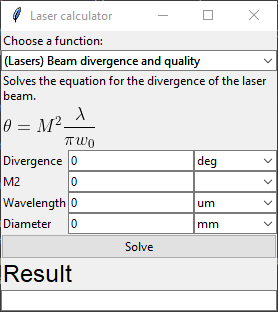
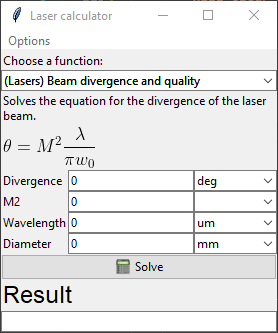
Added history (Issue #4)

diff --git a/laser-calculator.py b/laser-calculator.py
@@ -5,19 +5,31 @@ from tkinter import ttk
 import json
 import sympy
 import copy
+import datetime
 
 class Calculator(ttk.Frame):    
     def __init__(self,master):
         ttk.Frame.__init__(self,master)
         self.master = master
         self.master.title("Laser calculator")
+        self.master.option_add("*tearOff", tk.FALSE)
+        self.master.protocol("WM_DELETE_WINDOW", self.on_closing)      
 
         with open('functions.json', 'r') as file:
             self.settings = json.load(file)
         with open("constants.json","r") as file:
             self.constants = json.load(file)
+        try:
+            with open('history.json', 'r') as file:
+                self.history = json.load(file)
+        except FileNotFoundError:
+            self.history = dict()
 
         self.ureg = pint.UnitRegistry()
+
+        self.p_history = tk.PhotoImage(master=self,file=r"icons/log.png")
+        self.p_clear = tk.PhotoImage(master=self,file=r"icons/delete.png")
+        self.p_calc = tk.PhotoImage(master=self,file=r"icons/calc.png")
 
         self.functions = list(self.settings.keys())
         self.functions_names = [self.settings[x]["name"] for x in self.functions]
@@ -38,10 +50,79 @@ class Calculator(ttk.Frame):
         ttk.Label(self.frame_main,text=instructions,wraplength=280,justify="left").grid(row=0,column=0,sticky="ew",columnspan=3)
         self.frame_main.grid(column=0,row=1)
 
+        self.menubar = tk.Menu(self.master)
+        self.master["menu"] = self.menubar
+        self.menu_options = tk.Menu(self.menubar)
+        self.menubar.add_cascade(menu=self.menu_options,label="Options")
+        self.menu_options.add_command(label="Show history",command=self.show_history,image=self.p_history,compound=tk.LEFT,accelerator="Ctrl+H")
+        self.menu_options.add_command(label="Clear history",command=self.clear_history,image=self.p_clear,compound=tk.LEFT)
+        self.history_window_open = False
+
+        self.bind_all("<Control-KeyPress-h>",self.show_history)
+
+    def on_closing(self):
+        with open('history.json', 'w') as file:
+            json.dump(self.history,file,sort_keys=True, indent=4)
+        self.master.destroy()
+
+    def show_history(self,event=None):
+        try:
+            self.history_window.destroy()
+            self.history_window_open = False
+        except:
+            pass
+        self.history_window = tk.Toplevel(self.master)
+        self.history_window.title("History")
+        self.history_window.protocol("WM_DELETE_WINDOW", self.close_history)        
+        
+        self.history_tree = ttk.Treeview(self.history_window,columns=("function","inputs","outputs"))
+        self.history_tree.heading("#0",text="Time")
+        self.history_tree.heading("function",text="Function")
+        self.history_tree.heading("inputs",text="Inputs")
+        self.history_tree.heading("outputs",text="Output")
+        self.history_tree.column("#0",stretch=False,width=150)
+        self.history_tree.column("function",stretch=False,width=200)
+        self.history_tree.column("inputs",stretch=True,width=350)
+        self.history_tree.column("outputs",stretch=True,width=350)        
+        self.history_tree.grid(column=1,row=1,sticky="nsew")
+        scrlbar = ttk.Scrollbar(self.history_window,command=self.history_tree.yview)
+        self.history_tree.config(yscrollcommand = scrlbar.set)
+        scrlbar.grid(column=2,row=1,sticky="nsew")
+        self.history_window.columnconfigure(1,weight=1)
+        self.history_window.rowconfigure(1,weight=1)
+        self.history_window_open = True
+        for key in self.history.keys():
+            self.history_tree.insert("",0,text=key,values=self.history[key])
+    
+    def close_history(self):
+        self.history_window_open = False
+        self.history_window.destroy()
+
+    def add_history(self,what=()):
+        now = datetime.datetime.now().isoformat(sep=" ",timespec="seconds")
+        self.history[str(now)] = what 
+        if self.history_window_open:
+            self.history_tree.insert("",0,text=now,values=what)
+
+    def clear_history(self):
+        self.history = dict()
+        if self.history_window_open:
+            for children in self.history_tree.get_children():
+                self.history_tree.delete(children)
+
     def on_function_selected(self,event=None):
+        '''Called, when a function is selected
+        Will clear the GUI of the controlling elements of the last function
+        and will build a new one. Depending on the calculation regime, 
+        it will call either build_calc or build_solve function. Finally,
+        it will create a view for the constants.
+        '''
         try:
             self.frame_main.grid_forget()            
             self.frame_main.destroy()
+        except:
+            pass
+        try:
             self.frame_tree.grid_forget()
             self.frame_tree.destroy()
         except:
@@ -81,8 +162,12 @@ class Calculator(ttk.Frame):
                 for vals in self.constants[name].keys():
                     tree.insert(name,'end',vals,values=(vals,self.constants[name][vals]))
             tree.grid(column=1,row=1,sticky="nsew")
+            scrlbar = ttk.Scrollbar(self.frame_tree,command=tree.yview)
+            tree.config(yscrollcommand = scrlbar.set)
+            scrlbar.grid(column=2,row=1,sticky="nsew")
             self.frame_tree.grid(column=1,row=0,rowspan=2,sticky="nsew")
             self.frame_tree.rowconfigure(1,weight=1)
+            
 
     def build_solve(self,fun):
         self.var_units = []
@@ -102,7 +187,7 @@ class Calculator(ttk.Frame):
             self.var_CB[ind].state(["readonly"])
             self.var_CB[ind].grid(row=2+ind,column=2,sticky="e")
         
-        ttk.Button(self.frame_main,text="Solve",command=self.calculate_btn).grid(row=101,column=0,columnspan=3,sticky="ew")
+        ttk.Button(self.frame_main,text="Solve",command=self.calculate_btn,image=self.p_calc,compound=tk.LEFT).grid(row=101,column=0,columnspan=3,sticky="ew")
         self.result = tk.StringVar(value="Result")
         self.result_number = tk.StringVar()
         ttk.Label(self.frame_main,textvariable=self.result,font=("Arial", 18),wraplength=280).grid(row=102,column=0,columnspan=3,sticky="ew")
@@ -140,7 +225,7 @@ class Calculator(ttk.Frame):
         self.output_CB.state(["readonly"])
         self.output_CB.grid(row=100,column=2,sticky="e")
 
-        ttk.Button(self.frame_main,text="Calculate",command=self.calculate_btn).grid(row=101,column=0,columnspan=3,sticky="ew")
+        ttk.Button(self.frame_main,text="Calculate",command=self.calculate_btn,image=self.p_calc,compound=tk.LEFT).grid(row=101,column=0,columnspan=3,sticky="ew")
         self.result = tk.StringVar(value="Result")
         self.result_number = tk.StringVar()
         ttk.Label(self.frame_main,textvariable=self.result,font=("Arial", 18),wraplength=280).grid(row=102,column=0,columnspan=3,sticky="ew")
@@ -161,6 +246,7 @@ class Calculator(ttk.Frame):
         found_x = False
         I = [None] * len(self.var_values)
         str_to_eval = [None] * len(self.var_values)
+        inputs = ""
         # Deciding, what to solve
         for ind,name in enumerate(self.settings[fun]["variables"].keys()):
             I[ind] = sympy.symbols(name)
@@ -175,6 +261,7 @@ class Calculator(ttk.Frame):
                     return 0
             else:
                 str_to_eval[ind] = "{0} = float(self.var_values[{1}].get().replace(',','.')) * self.ureg(self.var_units[{1}].get())".format(name,ind)
+                inputs = inputs + f"{self.settings[fun]['variables'][name]['name']} = {self.var_values[ind].get().replace(',','.')} {self.var_units[ind].get()}, "
         if not found_x:
             self.write("One x required.")
             return 0
@@ -193,6 +280,7 @@ class Calculator(ttk.Frame):
             result = eval(solution).to(resulting_units)
             self.result.set(value="{} is {:.3fP}".format(resulting_name,result))
             self.result_number.set(value=str(result.magnitude))
+            self.add_history((self.settings[fun]["name"],inputs[0:-2],f"{resulting_name} = {str(result)}"))
         except ZeroDivisionError:
             self.write("Cannot divide by zero!")
             return 0
@@ -200,6 +288,7 @@ class Calculator(ttk.Frame):
 
     def calculate(self,fun):
         I = [None] * len(self.inputs_values)
+        inputs = ""
         for ind,name in enumerate(self.settings[fun]["inputs"].keys()):
             value = self.inputs_values[ind].get().replace(",",".")
             try:
@@ -211,6 +300,7 @@ class Calculator(ttk.Frame):
                 else:
                     error = 0           
                     I[self.settings[fun]["inputs"][name]["position"]] = (float(magnitude) * self.ureg(self.inputs_units[ind].get())) 
+                inputs = inputs + f"{name} = {self.inputs_values[ind].get().replace(',','.')} {self.inputs_units[ind].get()}, "
             except ValueError:
                 self.write("Cannot convert to numbers!")
                 return 0
@@ -219,6 +309,7 @@ class Calculator(ttk.Frame):
             result = eval(function_to_evaluate).to(self.output.get())
             self.result.set(value="{} is {:.3fP}".format(self.settings[fun]['outputs']['name'],result))
             self.result_number.set(value=str(result.magnitude))
+            self.add_history((self.settings[fun]["name"],inputs[0:-2],f"{self.settings[fun]['outputs']['name']} = {str(result)}"))
         except ZeroDivisionError:
             self.write("Cannot divide by zero!")
             return 0

diff --git a/README.md b/README.md
@@ -1,4 +1,4 @@
-# Laser and optics calculator
+# 🌠 Laser and optics calculator
 
 This is a simple calculator, which quickly allows one to calculate various functions and solve  equations common in the optics and laser community. The two main things I have focused on are:
 
@@ -7,10 +7,17 @@ This is a simple calculator, which quickly allows one to calculate various funct
 
 Additionally, when the calculated function is *linear*, one can add an uncertainty to the values, which will be propagated into the results.
 
+Nice online calculators, that can do similar stuff, are these:
+
+- [Optics toolbox](http://toolbox.lightcon.com) from Light conversion
+- [Laser calculator](https://lasercalculator.com) by Joona Rissanen 
+
+In contrast to those, however, you can quickly and simply add anything you need to this one 👍.
+
 ---
 
 ## Table of contents
-- [Laser and optics calculator](#laser-and-optics-calculator)
+- [🌠 Laser and optics calculator](#-laser-and-optics-calculator)
   - [Table of contents](#table-of-contents)
   - [Application usage](#application-usage)
     - [List of available function](#list-of-available-function)
@@ -109,6 +116,18 @@ If there are some constants associated with the functions, they will be displaye
 ![Showing associated constants](screenshots/b-integral.png)
 
 These constants can be easily changed or added, the process in described [in this section](#structure-of-the-constantsjson-file).
+
+### History
+
+History of calculations can be shown by clicking on the `Options` menu and then `Show history` button. 
+
+![Options menu](screenshots/options-menu.png)
+
+Alternatively, one can use `Ctrl+H` shortcut. The history will be shown in separate window with four columns, showing the date and time of calculation, the name of the function, inputs and outputs, as is demonstrated on the following picture:
+
+![History](screenshots/history.png)
+
+The history is saved in the `history.json` file and can be cleared by deleting the file or by clicking the `Clear history` button in the `Options` menu.
 
 ### Starting from `.bat` file with conda
 
